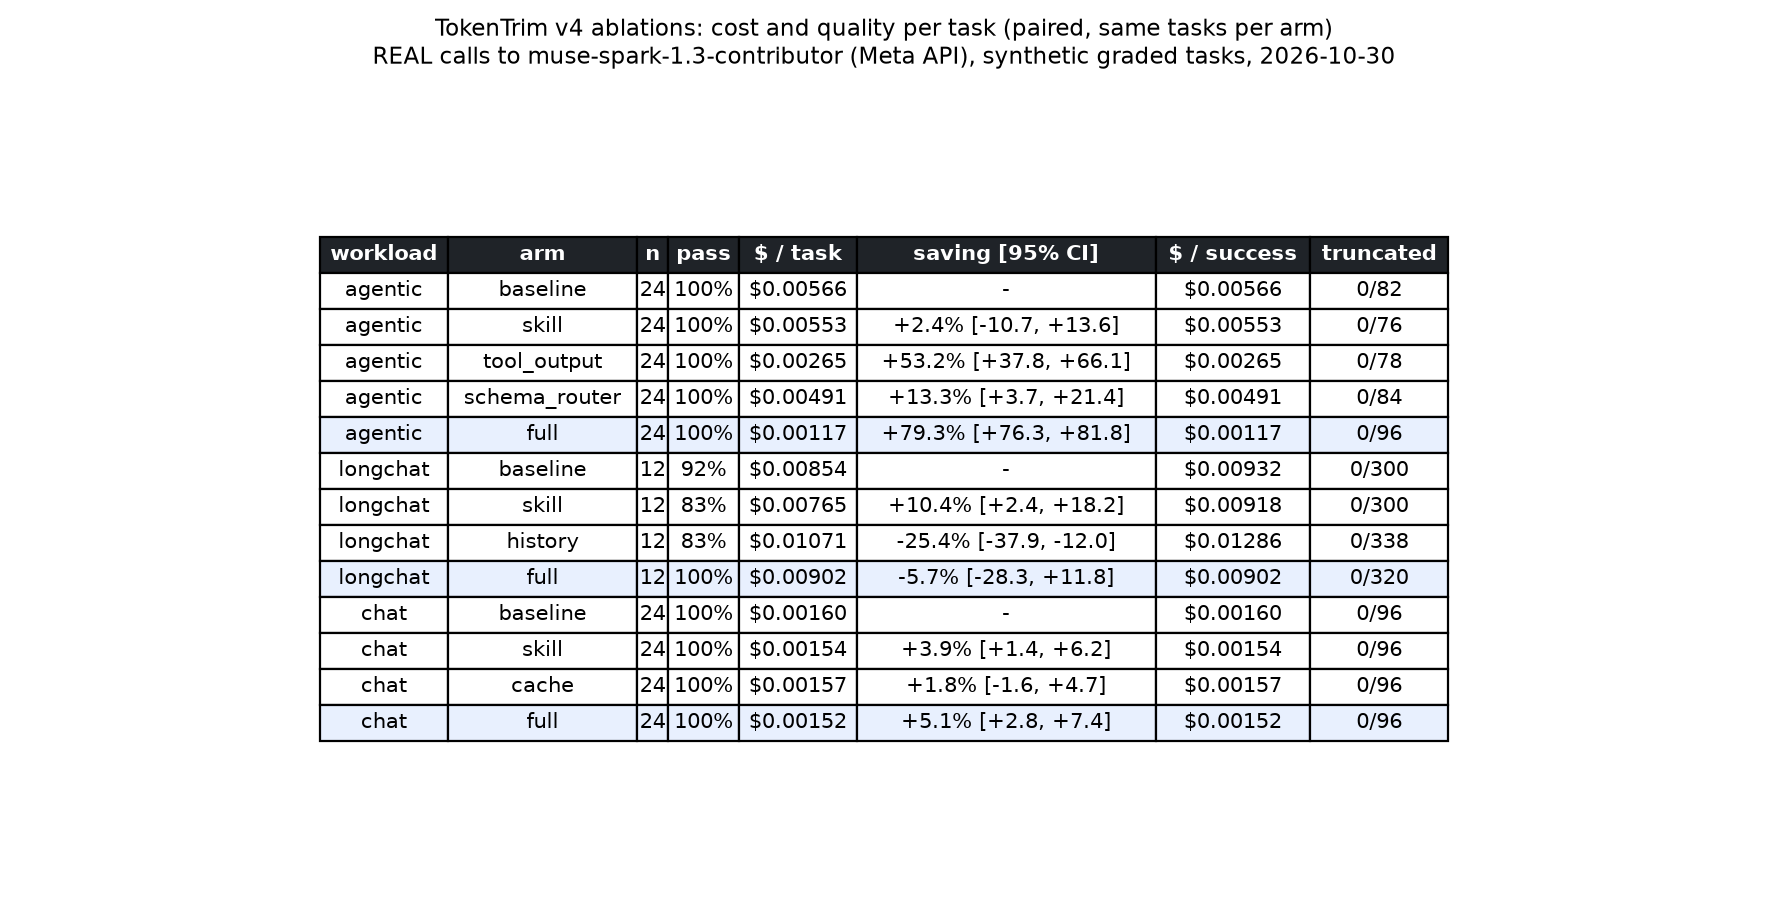
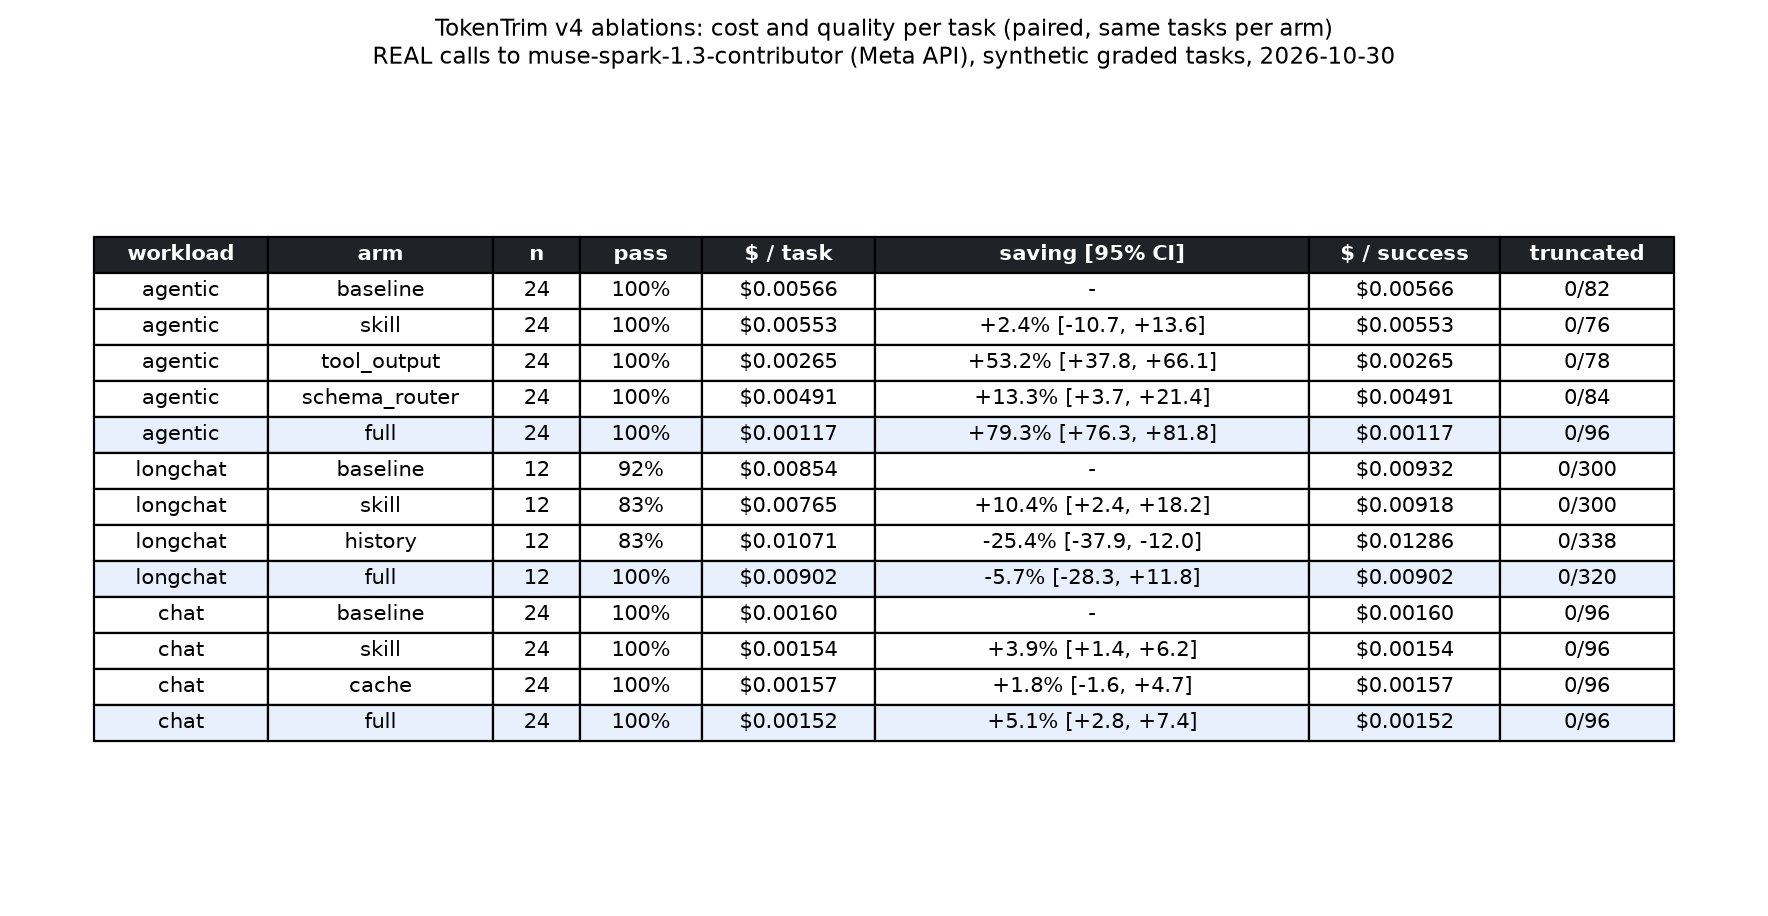
fix ablation table column widths

Changed region(s): [[0.0311, 0.2445, 0.9644, 0.8253]]

diff --git a/benchmarks/figures.py b/benchmarks/figures.py
@@ -37,11 +37,11 @@ def ablation_table(sums):
                          f"${cps:.5f}" if cps else "-", f"{v['truncated_calls']}/{v['calls_total']}"])
     fig, ax = plt.subplots(figsize=(14, 0.42 * len(rows) + 0.8))
     ax.axis("off")
-    t = ax.table(cellText=rows[1:], colLabels=rows[0], loc="center", cellLoc="center")
+    t = ax.table(cellText=rows[1:], colLabels=rows[0], loc="center", cellLoc="center",
+                 colWidths=[0.1, 0.13, 0.05, 0.07, 0.1, 0.25, 0.11, 0.1])
     t.auto_set_font_size(False)
     t.set_fontsize(9.5)
     t.scale(1, 1.35)
-    t.auto_set_column_width(list(range(len(rows[0]))))
     for (r, c), cell in t.get_celld().items():
         if r == 0:
             cell.set_facecolor("#1f2328"); cell.set_text_props(color="white", weight="bold")
